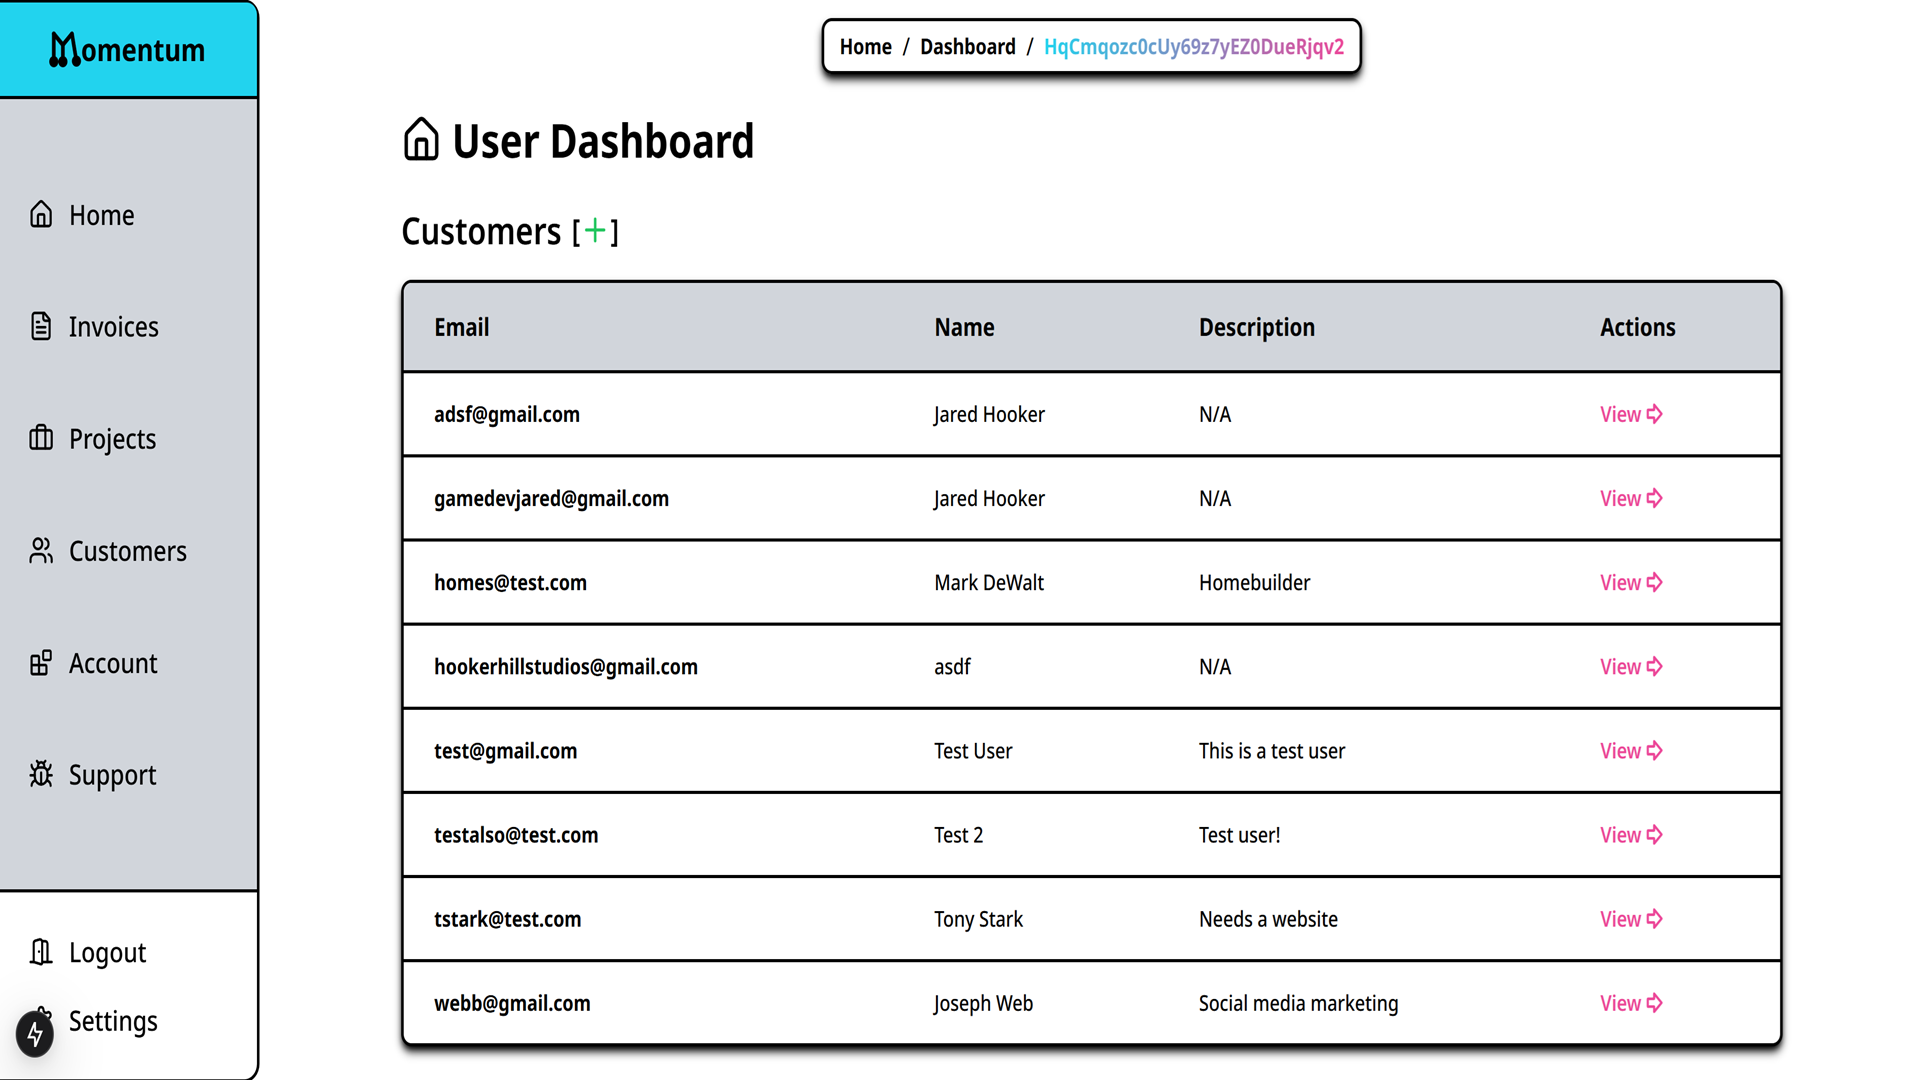
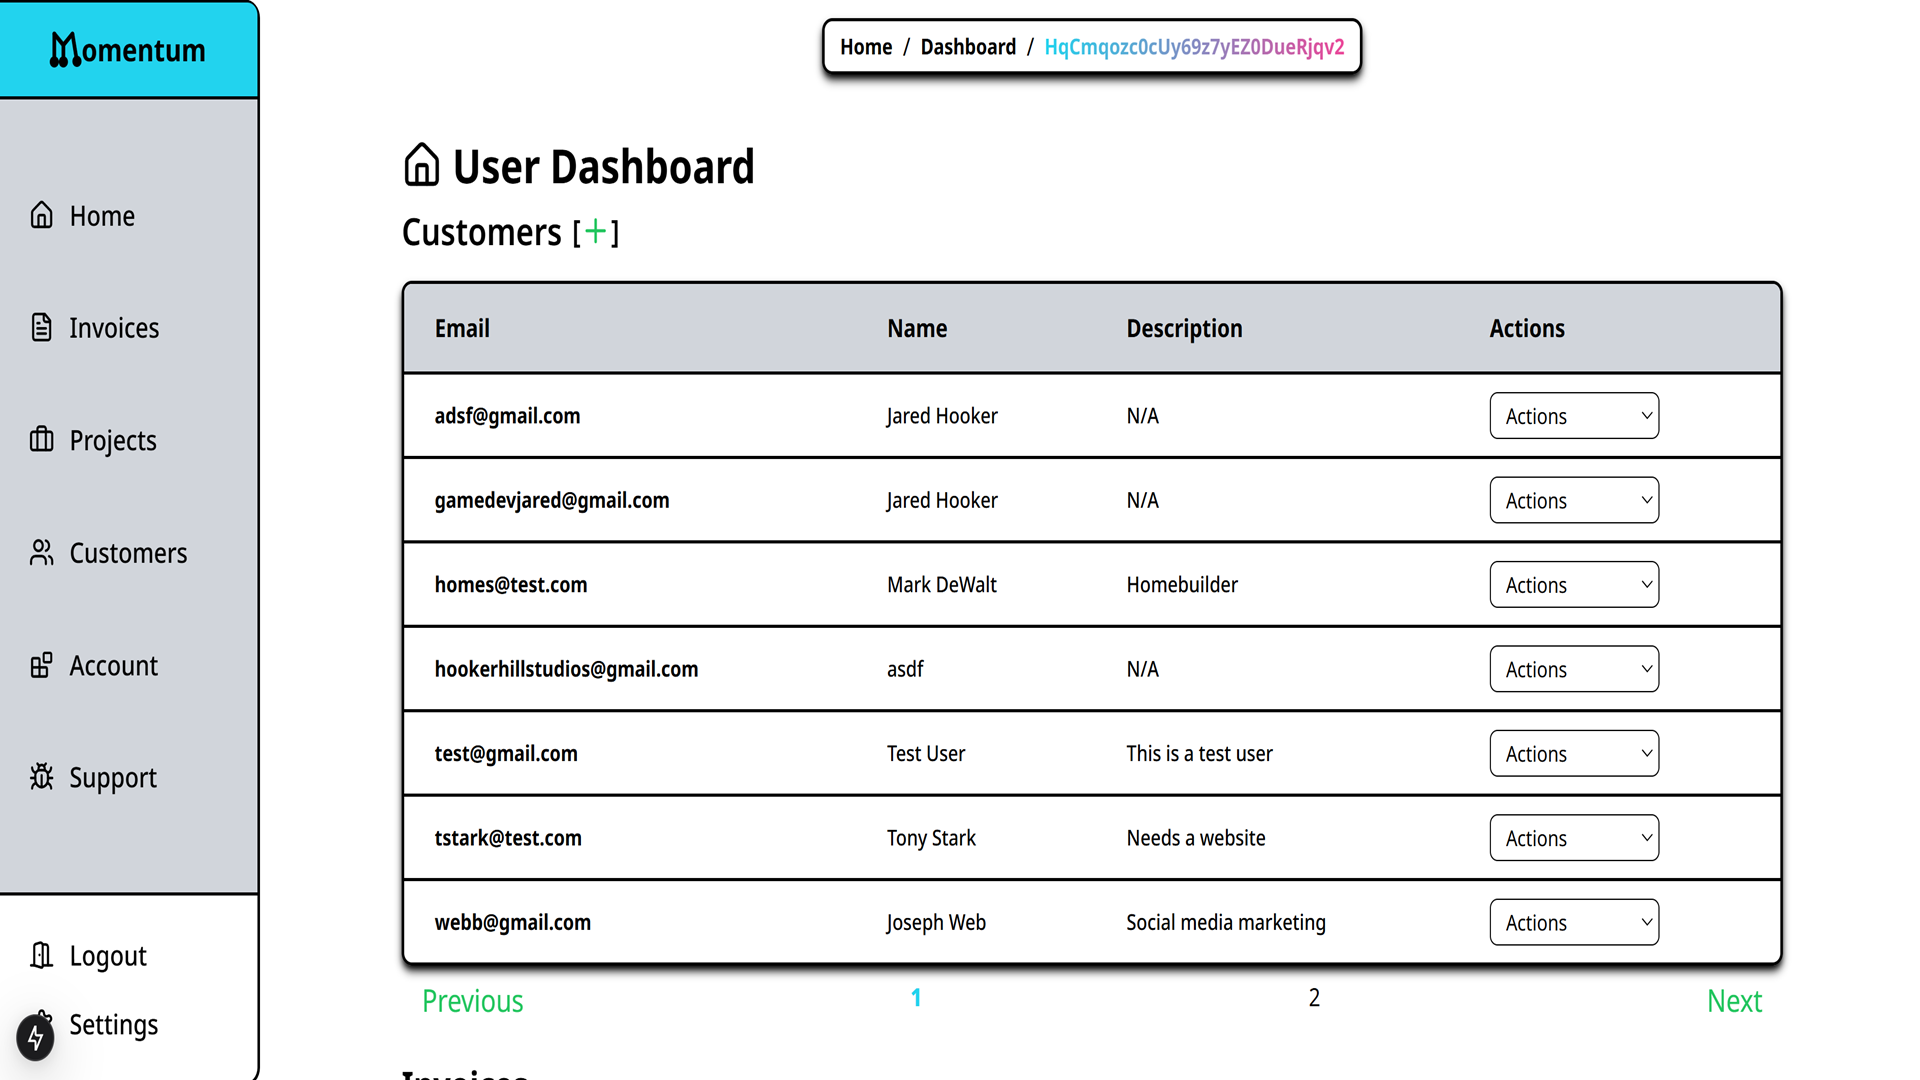
k

diff --git a/src/components/user/SupportTicketForm.jsx b/src/components/user/SupportTicketForm.jsx
@@ -1,72 +1,91 @@
 // components/SupportForm.js
 
-import React, { useState } from 'react';
-import { addDoc, collection } from 'firebase/firestore';
-import { db } from '../../../firebase';
-import { toast } from 'react-toastify';
-import { useAuth } from '../../context/AuthProvider';
+import React, { useState } from "react";
+import { addDoc, collection } from "firebase/firestore";
+import { db } from "../../../firebase";
+import { toast } from "react-toastify";
+import { useAuth } from "../../context/AuthProvider";
 
 export default function SupportForm({ onClose }) {
-    const { user } = useAuth();
-    const [ticketType, setTicketType] = useState('Bug');
-    const [isSubmitted, setIsSubmitted] = useState(false);
+  const { user } = useAuth();
+  const [ticketType, setTicketType] = useState("Bug");
+  const [isSubmitted, setIsSubmitted] = useState(false);
 
-    // Handle form submission
-    const submitSupportForm = async (e) => {
-        e.preventDefault();
-        const formData = new FormData(e.target);
-        const data = Object.fromEntries(formData);
+  // Handle form submission
+  const submitSupportForm = async (e) => {
+    e.preventDefault();
+    const formData = new FormData(e.target);
+    const data = Object.fromEntries(formData);
 
-        if (user) {
-            try {
-                // Add the support ticket to the supportTickets collection
-                await addDoc(collection(db, 'supportTickets'), {
-                    userId: user.uid,
-                    type: ticketType,
-                    message: data.message,
-                    timestamp: new Date().getTime(),
-                    ticketStatus: 'submitted', // Default ticket status is open,
-                });
+    if (user) {
+      try {
+        // Add the support ticket to the supportTickets collection
+        await addDoc(collection(db, "supportTickets"), {
+          userId: user.uid,
+          type: ticketType,
+          message: data.message,
+          timestamp: new Date().getTime(),
+          ticketStatus: "submitted", // Default ticket status is open,
+        });
 
-                // Clear the form and show a success message
-                toast.success('Support ticket submitted successfully!');
-                setIsSubmitted(true);
-                setTimeout(() => {
-                    setIsSubmitted(false);
-                    onClose();
-                }, 3000);
-            } catch (error) {
-                console.error('Error submitting support ticket:', error);
-                alert('Failed to submit the support ticket. Please try again.');
-            }
-        } else {
-            alert('You must be logged in to submit a support ticket.');
-        }
-    };
+        // Clear the form and show a success message
+        toast.success("Support ticket submitted successfully!");
+        setIsSubmitted(true);
+        setTimeout(() => {
+          setIsSubmitted(false);
+          onClose();
+        }, 3000);
+      } catch (error) {
+        console.error("Error submitting support ticket:", error);
+        alert("Failed to submit the support ticket. Please try again.");
+      }
+    } else {
+      alert("You must be logged in to submit a support ticket.");
+    }
+  };
 
-    return (
-        <div className="inset-0 flex fixed w-full h-full bg-black/95 justify-center">
-            <form onSubmit={submitSupportForm} className="w-full h-full flex flex-col absolute items-center justify-center max-w-xl mx-auto px-10">
-                <h2 className="text-2xl text-center font-bold text-white mb-4">Submit Support Ticket</h2>
-                <select
-                    name="type"
-                    value={ticketType}
-                    onChange={(e) => setTicketType(e.target.value)}
-                    className="w-full p-2 rounded-md mb-4"
-                >
-                    <option value="">Select Type</option>
-                    <option value="Bug">Bug</option>
-                    <option value="Feature Request">Feature Request</option>
-                    <option value="Help">Help</option>
-                </select>
-                <textarea rows={4} name="message" placeholder="Your Message" className="w-full p-2 rounded-md mb-4" />
-                <button type="submit" className="bg-confirm text-black w-full p-2 rounded-md hover:bg-confirm/60 transition duration-300 font-semibold">
-                    Submit
-                </button>
-                <button className="btn btn-text text-destructive hover:opacity-60 duration-300" onClick={onClose}>
-                    Cancel
-                </button>
-            </form>
+  return (
+    <div className="inset-0 flex fixed w-full h-full bg-black/95 justify-center">
+      <form
+        onSubmit={submitSupportForm}
+        className="w-full h-full flex flex-col absolute items-center justify-center max-w-xl mx-auto px-10"
+      >
+        <h2 className="text-2xl text-center font-bold text-white mb-4">
+          Submit Support Ticket
+        </h2>
+        <select
+          name="type"
+          value={ticketType}
+          onChange={(e) => setTicketType(e.target.value)}
+          className="w-full p-2 rounded-md mb-4"
+        >
+          <option value="">Select Type</option>
+          <option value="Bug">Bug</option>
+          <option value="Feature Request">Feature Request</option>
+          <option value="Help">Help</option>
+        </select>
+        <textarea
+          rows={4}
+          name="message"
+          placeholder="Your Message"
+          className="w-full p-2 rounded-md mb-4"
+        />
+        <div className="flex justify-end gap-6  w-full">
+          <button
+            type="button"
+            onClick={onClose}
+            className="text-destructive hover:opacity-60 duration-300 rounded-md"
+          >
+            Cancel
+          </button>
+          <button
+            type="submit"
+            className="px-6 py-2 bg-confirm font-semibold text-black rounded-md hover:bg-opacity-60 duration-300 disabled:opacity-50"
+          >
+            Submit
+          </button>
         </div>
-    );
+      </form>
+    </div>
+  );
 }

diff --git a/src/components/customer-table.tsx b/src/components/customer-table.tsx
@@ -170,6 +170,7 @@ export function CustomerTable({ customers, userId, itemsPerPage = 7 }: CustomerT
                   <td className="py-2 px-6 text-sm">
                     <div className="flex items-center space-x-4">
                       <select
+                        aria-label='Actions'
                         className="border border-black rounded-md px-2 py-1 text-sm text-black"
                         onChange={(e) => {
                           const action = e.target.value;
@@ -179,7 +180,7 @@ export function CustomerTable({ customers, userId, itemsPerPage = 7 }: CustomerT
                           } else if (action === 'view') {
                             router.push(`/Dashboard/${userId}/${customer.stripeCustomerId}`);
                           }
-                          e.target.value = ''; // Reset select after action
+                          e.target.value = 'Actions';
                         }}
                       >
                         <option value="Actions">Actions</option>
@@ -229,6 +230,7 @@ export function CustomerTable({ customers, userId, itemsPerPage = 7 }: CustomerT
                 <div>
                   <label className="block text-sm font-medium text-white">Amount</label>
                   <input
+                    aria-label="amount"
                     type="number"
                     value={invoiceData.amount}
                     onChange={(e) => setInvoiceData(prev => ({ ...prev, amount: e.target.value }))}
@@ -239,6 +241,7 @@ export function CustomerTable({ customers, userId, itemsPerPage = 7 }: CustomerT
                 <div>
                   <label className="block text-sm font-medium text-white">Description</label>
                   <input
+                    aria-label="description"
                     type="text"
                     value={invoiceData.description}
                     onChange={(e) => setInvoiceData(prev => ({ ...prev, description: e.target.value }))}
@@ -249,6 +252,7 @@ export function CustomerTable({ customers, userId, itemsPerPage = 7 }: CustomerT
                 <div>
                   <label className="block text-sm font-medium text-white">Due Date</label>
                   <input
+                    aria-label="dueDate"
                     type="date"
                     value={invoiceData.dueDate}
                     onChange={(e) => setInvoiceData(prev => ({ ...prev, dueDate: e.target.value }))}

diff --git a/src/components/landing-page/Header.jsx b/src/components/landing-page/Header.jsx
@@ -10,6 +10,8 @@ import {
   ArrowDown,
   ArrowDownSquare,
   ArrowUpRightFromSquareIcon,
+  ChevronDown,
+  ExternalLinkIcon,
 } from "lucide-react";
 
 // Page Data
@@ -23,7 +25,7 @@ const pageData = {
     { text: "Pricing", href: "/#price" },
     { text: "Gallery", href: "/#gallery" },
     { text: "FAQ", href: "/#faq" },
-    { text: "Docs", href: "/About", icon: ArrowUpRightFromSquareIcon },
+    { text: "Docs", href: "/About", icon: ExternalLinkIcon },
     { text: "Start Now", href: "/Signup", isPrimary: true },
   ],
 };
@@ -102,7 +104,7 @@ export const Header = () => {
                   className="hover:opacity-60 flex flex-row items-center gap-1 duration-300"
                 >
                   Login{" "}
-                  <ArrowDownSquare className="h-4 w-4 flex-row flex justify-center items-center" />
+                  <ChevronDown className="h-4 w-4 flex-row flex justify-center items-center" />
                 </button>
                 {isDropdownOpen && (
                   <div className="absolute left-1/2 -translate-x-1/2 top-8 border-2 border-black bg-white shadow-lg shadow-black rounded-md mt-2">
@@ -148,19 +150,21 @@ export const Header = () => {
               <Link
                 key={index}
                 href={item.href}
-                className="hover:pr-2 duration-300"
+                className="hover:pr-2 flex flex-row gap-1 items-center duration-300"
                 onClick={toggleMenu}
               >
                 {item.text}
+                {item.icon && <item.icon className="h-4 w-4" />}
               </Link>
             ))}
             {/* Dropdown for Mobile */}
             <div className="relative">
               <button
                 onClick={toggleDropdown}
-                className="hover:pr-2 duration-300"
+                className="hover:pr-2 flex flex-row gap-1 items-center duration-300"
               >
                 Login
+                <ChevronDown className="h-4 w-4 flex-row flex justify-center items-center" />
               </button>
               {isDropdownOpen && (
                 <div className="absolute border-2 border-black bg-white  shadow-lg  left-1/2 text-center -translate-x-1/2 shadow-black rounded-md mt-2">

diff --git a/src/components/FeaturesSection.jsx b/src/components/FeaturesSection.jsx
@@ -80,7 +80,7 @@ const FeaturesSection = () => {
                 <h3 className="text-2xl md:text-3xl font-bold mb-4 mt-8 text-black">
                   {feature.title}
                 </h3>
-                <p className="text-md md:text-lg w-full font-medium text-black mb-6 text-left leading-relaxed">
+                <p className="text-lg md:text-xl w-full font-medium text-black mb-6 text-center leading-relaxed">
                   {feature.description}
                 </p>
                 <ul className="text-black items-center w-full text-left text-md md:text-lg font-medium space-y-2">
